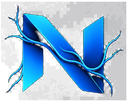
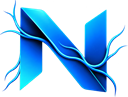
Give phones a full-screen menu and switch to the emblem-only mark
The supplied logo bakes the wordmark under the N, so the header and
footer now carry the emblem alone. The phone menu was opening clipped
inside the bar's own box and its frosted panel let the hero ghost
through, so it is now a solid full-screen sheet that locks page scroll
and no longer needs a transform on the header to stay put. Project
plates open from the picture itself, the ServePilot badge rests on a
fixed dark plate so it survives a light screenshot, and the footer
drops TikTok for WhatsApp with the social row under Contact.

diff --git a/app/globals.css b/app/globals.css
@@ -10,7 +10,6 @@
   --line-strong: rgb(217 233 255 / 25%);
   --accent: #17c8f5;
   --accent-dim: #1488f5;
-  --wordmark-filter: none;
   --hero-scrim: linear-gradient(90deg, rgb(5 9 20 / 94%) 0%, rgb(5 9 20 / 74%) 32%, rgb(5 9 20 / 26%) 62%, rgb(5 9 20 / 0%) 88%);
   --hero-scrim-mobile: linear-gradient(180deg, rgb(5 9 20 / 80%) 0%, rgb(5 9 20 / 42%) 46%, rgb(5 9 20 / 84%) 100%);
   --hero-loading: radial-gradient(ellipse at 62% 52%, rgb(16 122 255 / 22%), transparent 55%);
@@ -39,7 +38,6 @@
   --editorial-text: #152235;
   --editorial-muted: #536174;
   --editorial-accent: #247fa5;
-  --wordmark-filter: invert(1) hue-rotate(180deg);
   /* The whole page turns light; the full-bleed Tornado is recoloured to deeper
      tones so it stays visible on the light surface. */
   color-scheme: light;
@@ -70,9 +68,8 @@ button { color: inherit; }
 @keyframes nav-water-wave { 0% { opacity: .5; transform: translate(-50%, -50%) scale(.55); } 100% { opacity: 0; transform: translate(-50%, -50%) scale(2.25); } }
 :root[data-theme="light"] .nav-glass { border-color: rgb(10 30 60 / 18%); background: rgb(238 243 251 / 68%); box-shadow: 0 4px 30px rgb(20 44 76 / 12%); }
 :root[data-theme="light"] .nav-glass::before { background: radial-gradient(230px circle at var(--pointer-x, 50%) var(--pointer-y, 50%), rgb(20 154 219 / 13%), transparent 72%), linear-gradient(115deg, rgb(255 255 255 / 48%), transparent 35%, rgb(255 255 255 / 14%)); }
-.wordmark { position: relative; z-index: 1; display: inline-flex; flex: 0 0 auto; align-items: center; gap: 9px; white-space: nowrap; }
-.wordmark-emblem { display: block; width: 37px; height: 32px; object-fit: contain; }
-.wordmark-image { display: block; width: clamp(116px, 11vw, 145px); height: auto; filter: var(--wordmark-filter); transition: filter .35s ease; }
+.wordmark { position: relative; z-index: 1; display: inline-flex; flex: 0 0 auto; align-items: center; }
+.wordmark-emblem { display: block; width: 44px; height: 33px; object-fit: contain; }
 .primary-nav { position: relative; z-index: 1; display: flex; align-items: center; gap: clamp(18px, 2.4vw, 34px); color: color-mix(in srgb, var(--paper) 77%, transparent); font-size: 11px; }
 .primary-nav > a:not(.nav-contact) { transition: color .2s ease; }
 .primary-nav > a:not(.nav-contact):hover { color: var(--accent); }
@@ -203,6 +200,7 @@ button { color: inherit; }
 .project-stack { display: flex; flex-direction: column; gap: clamp(54px, 6.5vw, 112px); }
 .project-row { display: grid; grid-template-columns: repeat(2, minmax(0, 1fr)); gap: clamp(26px, 3.4vw, 54px); }
 .project-plate { display: grid; gap: 18px; }
+.plate-media-link { display: block; }
 .plate-media { position: relative; aspect-ratio: 16 / 10; overflow: hidden; border: 1px solid var(--line-strong); border-radius: 18px; background: var(--ink); box-shadow: 0 30px 70px rgb(2 8 20 / 38%); transition: transform .5s var(--curve), border-color .3s ease, box-shadow .5s var(--curve); }
 /* The curtain and the over-crop sit on this layer, so the plate's border and its
    badge stay put while only the shot itself opens. */
@@ -213,10 +211,14 @@ button { color: inherit; }
 .plate-name { display: flex; align-items: center; gap: 15px; }
 .plate-name h3 { margin: 0; font-size: clamp(33px, 3.7vw, 54px); line-height: .95; font-weight: 450; letter-spacing: -.07em; transition: color .3s ease; }
 .plate-arrow { display: inline-flex; flex: none; color: var(--accent); transition: transform .38s var(--curve); }
-.plate-foot { display: flex; flex-wrap: wrap; align-items: end; justify-content: space-between; gap: 14px 26px; }
 .plate-note { margin: 0; color: var(--muted); font-size: 16.5px; line-height: 1.5; }
-.plate-link { display: inline-flex; flex: none; align-items: center; gap: 7px; padding: 10px 14px; border: 1px solid var(--line-strong); border-radius: 12px; color: var(--paper); font: 500 11px/1 var(--font-mono); letter-spacing: .04em; transition: border-color .2s ease, color .2s ease; }
-.plate-link:hover { border-color: color-mix(in srgb, var(--accent) 45%, var(--line-strong)); color: var(--accent); }
+/* The whole picture is the link, so the badge only has to say where it goes.
+   It sits on top of a screenshot of unknown brightness, so its rest colours are
+   fixed dark glass with a light ring rather than theme tokens — ServePilot's
+   white page made a theme-pale disc disappear, and the hover had nothing to
+   change from. No backdrop-filter: the plate lift transforms an ancestor, which
+   Chrome does not always repaint behind a blurred layer. */
+.plate-open { position: absolute; z-index: 2; right: 14px; bottom: 14px; display: grid; place-items: center; width: 46px; height: 46px; border: 1px solid rgb(241 247 255 / 46%); border-radius: 50%; background: rgb(5 9 20 / 74%); box-shadow: 0 6px 18px rgb(2 8 20 / 32%); color: #eaf3ff; transition: transform .38s var(--curve), background .25s ease, border-color .25s ease, color .25s ease; }
 /* Hover: the plate lifts out of the grid, its edge takes the accent, the shot
    leans in behind the frame, the name picks up the accent and the arrow steps
    forward. The zoom is on the img because the scroll reveal owns the transform
@@ -225,6 +227,7 @@ button { color: inherit; }
 .project-plate:hover .plate-shot img, .project-plate:focus-within .plate-shot img { transform: scale(1.06); }
 .project-plate:hover .plate-name h3, .project-plate:focus-within .plate-name h3 { color: var(--accent); }
 .project-plate:hover .plate-arrow, .project-plate:focus-within .plate-arrow { transform: translateX(7px); }
+.project-plate:hover .plate-open, .project-plate:focus-within .plate-open { transform: translate(4px, -4px); border-color: var(--accent); background: var(--accent); color: #050914; }
 
 .approach { display: grid; grid-template-columns: .95fr 1.05fr; gap: 12%; }
 .approach-lead .eyebrow { margin-bottom: 28px; }
@@ -347,8 +350,7 @@ button { color: inherit; }
 .footer-socials { display: flex; gap: 9px; margin: 0; padding: 0; list-style: none; }
 .footer-socials a { display: inline-flex; align-items: center; justify-content: center; width: 36px; height: 36px; border: 1px solid var(--line-strong); border-radius: 10px; color: var(--paper); opacity: .78; transition: color .2s ease, border-color .2s ease, opacity .2s ease; }
 .footer-socials a:hover { color: var(--accent); border-color: color-mix(in srgb, var(--accent) 42%, var(--line-strong)); opacity: 1; }
-.footer-wordmark { font-size: 11px; }
-.footer-wordmark-image { display: block; width: 168px; height: auto; }
+.footer-wordmark .wordmark-emblem { width: 62px; height: 47px; }
 .footer-columns { display: grid; grid-template-columns: repeat(3, minmax(0, 1fr)); gap: 26px; }
 .footer-column h3 { margin: 0 0 15px; color: var(--muted); font: 500 11px/1 var(--font-mono); letter-spacing: .09em; text-transform: uppercase; }
 .footer-column ul { display: flex; flex-direction: column; gap: 10px; margin: 0; padding: 0; list-style: none; }
@@ -363,9 +365,7 @@ button { color: inherit; }
   .page-wrap { width: min(100% - 56px, 1320px); }
   .site-header { width: min(100% - 48px, 1080px); }
   .nav-glass { gap: 20px; padding-left: 17px; }
-  .wordmark { gap: 7px; }
-  .wordmark-emblem { width: 32px; height: 29px; }
-  .wordmark-image { width: 120px; }
+  .wordmark-emblem { width: 40px; height: 30px; }
   .primary-nav { gap: 18px; }
   .nav-contact { padding-inline: 13px; }
   .nav-end { gap: 8px; }
@@ -385,23 +385,36 @@ button { color: inherit; }
   .footer-columns { gap: 20px; }
 }
 @media (max-width: 760px) {
-  html { scroll-padding-top: 72px; }
+  /* The floating bar is 62px tall and sits 12px down, plus the notch inset, so
+     an anchor jump has to clear more than the desktop 88px. */
+  html { scroll-padding-top: calc(88px + env(safe-area-inset-top)); }
   .page-wrap { width: min(100% - 40px, 620px); }
   .section-pad { padding-block: 62px; }
-  .site-header { top: calc(12px + env(safe-area-inset-top)); width: min(100% - 32px, 620px); }
+  /* Centred with auto margins instead of a transform, and it steps aside with
+     top rather than the desktop translate: any transform, even the tail of a
+     transition, would capture the fixed sheet inside the bar. */
+  .site-header { top: calc(12px + env(safe-area-inset-top)); right: 0; left: 0; margin-inline: auto; transform: none; transition: top .42s var(--curve); width: min(100% - 32px, 620px); }
+  .site-header.is-hidden { top: calc(-100% - 90px); }
   .intro-band::before { height: clamp(72px, 12vh, 104px); }
-  .nav-glass { min-height: 62px; gap: 9px; padding: 0 10px 0 13px; border-radius: 16px; }
-  .wordmark { gap: 6px; }
-  .wordmark-emblem { width: 28px; height: 26px; }
-  .wordmark-image { width: clamp(104px, 30vw, 138px); }
+  .nav-glass { min-height: 62px; gap: 9px; padding: 0 10px 0 13px; border-radius: 16px; overflow: visible; -webkit-backdrop-filter: none; backdrop-filter: none; }
+  /* A fixed sheet needs the bar's backdrop-filter gone, and the filter was the
+     frost, so the plate turns solid. The light theme names .nav-glass itself,
+     which outranks a plain override, so it has to be named back. */
+  .nav-glass, :root[data-theme="light"] .nav-glass,
+  .site-header.is-stuck .nav-glass, :root[data-theme="light"] .site-header.is-stuck .nav-glass { background: var(--ink-soft); }
+  .wordmark-emblem { width: 34px; height: 26px; }
   .nav-end { gap: 6px; }
   .nav-glass .theme-toggle { width: 34px; min-height: 34px; padding: 0; justify-content: center; }
   .nav-glass .theme-toggle span { display: none; }
   .menu-toggle { display: grid; flex: 0 0 34px; width: 34px; height: 34px; place-items: center; border: 1px solid var(--line-strong); border-radius: 50%; background: rgb(255 255 255 / 4%); }
-  .primary-nav { position: absolute; top: calc(100% + 9px); left: 0; right: 0; display: flex; flex-direction: column; align-items: stretch; gap: 0; padding: 8px; border: 1px solid var(--line-strong); border-radius: 18px; background: color-mix(in srgb, var(--ink-soft) 94%, transparent); -webkit-backdrop-filter: blur(24px) saturate(145%); backdrop-filter: blur(24px) saturate(145%); box-shadow: 0 18px 45px rgb(0 0 0 / 25%); opacity: 0; visibility: hidden; pointer-events: none; transform: translateY(-7px) scale(.99); transform-origin: top center; transition: opacity .2s ease, transform .2s ease, visibility .2s ease; }
-  .primary-nav.is-open { opacity: 1; visibility: visible; pointer-events: auto; transform: translateY(0) scale(1); }
-  .primary-nav > a:not(.nav-contact) { min-height: 46px; padding: 0 12px; border-bottom: 1px solid var(--line); }
-  .primary-nav .nav-contact-mobile { display: flex; justify-content: space-between; margin-top: 7px; }
+  .primary-nav { position: fixed; inset: 0; z-index: 0; display: flex; flex-direction: column; align-items: stretch; justify-content: safe center; gap: 0; overflow-y: auto; padding: calc(78px + env(safe-area-inset-top)) 26px calc(26px + env(safe-area-inset-bottom)); background: var(--ink-soft); font-size: 17px; opacity: 0; visibility: hidden; pointer-events: none; transform: translateY(-10px); transition: opacity .22s ease, transform .22s ease, visibility .22s ease; }
+  .primary-nav.is-open { opacity: 1; visibility: visible; pointer-events: auto; transform: none; }
+  .primary-nav > a:not(.nav-contact) { min-height: 56px; padding: 0 2px; border-bottom: 1px solid var(--line); }
+  /* The active dot is centred on its link, so on a full-width row it floats in
+     the middle of the sheet. Colour alone marks the section here. */
+  .primary-nav > a:not(.nav-contact)::after { display: none; }
+  .primary-nav > a.is-active { color: var(--accent); }
+  .primary-nav .nav-contact-mobile { display: flex; align-items: center; justify-content: space-between; min-height: 52px; margin-top: 20px; }
   .nav-contact-desktop { display: none; }
   .hero { min-height: 100svh; padding-top: calc(96px + env(safe-area-inset-top)); padding-bottom: calc(72px + env(safe-area-inset-bottom)); }
   .hero-visual::after { pointer-events: none; background: var(--hero-scrim-mobile); }
@@ -424,14 +437,18 @@ button { color: inherit; }
   .work-heading { display: block; margin-bottom: 26px; }
   .work-heading .eyebrow { margin-bottom: 20px; }
   .work-heading > div { max-width: none; }
-  .project-stack { gap: 64px; }
+  .project-stack { gap: 44px; }
   .project-row { grid-template-columns: 1fr; gap: 0; }
-  .project-plate { gap: 16px; }
+  /* On a phone the plate is the only thing on its row, so it carries its own
+     surface instead of reading as a loose column of text under a picture. */
+  .project-plate { gap: 15px; padding: 13px; border: 1px solid var(--line); border-radius: 22px; background: var(--ink-raised); }
   .plate-name { gap: 11px; }
-  .plate-name h3 { font-size: 40px; }
-  .plate-foot { display: grid; gap: 14px; }
-  .plate-note { max-width: none; }
-  .plate-link { justify-self: start; }
+  .plate-name h3 { font-size: 36px; }
+  .plate-open { right: 11px; bottom: 11px; }
+  /* The shots are 3:2, so a 3:2 box shows the whole page instead of cropping
+     the top and bottom of a desktop screenshot that is already small. */
+  .plate-media { aspect-ratio: 3 / 2; border-radius: 14px; box-shadow: 0 18px 40px rgb(2 8 20 / 28%); }
+  .plate-tags { font-size: 10px; letter-spacing: .1em; }
   .why-split { grid-template-columns: 1fr; gap: 32px; }
   .why-panel h3 { font-size: 34px; }
   .process-track { display: block; padding-left: 26px; }
@@ -457,23 +474,34 @@ button { color: inherit; }
   .enquiry-popup { padding: 16px; }
   .enquiry-panel { padding: 20px; max-height: 90vh; }
   .enquiry-title { margin-top: 20px; font-size: 21px; }
-  .site-footer { grid-template-columns: 1fr auto; gap: 22px 14px; padding-block: 44px 18px; }
-  .footer-brand { grid-column: 1 / -1; max-width: none; }
-  .footer-columns { grid-column: 1 / -1; grid-template-columns: repeat(2, minmax(0, 1fr)); gap: 22px; }
-  .back-top { font-size: 10px; }
-  .copyright { padding-top: 18px; }
+  .site-footer { grid-template-columns: 1fr auto; gap: 20px 14px; padding-block: 38px 16px; }
+  /* The social row alone goes under Contact, so the brand column has to stop
+     being one flex block and let its three children place themselves in the
+     footer grid. Desktop keeps the flex column untouched. */
+  .footer-brand { display: contents; }
+  .footer-wordmark { grid-column: 1 / -1; grid-row: 1; }
+  .footer-brand > p { grid-column: 1 / -1; grid-row: 2; font-size: 15.5px; }
+  .footer-wordmark .wordmark-emblem { width: 54px; height: 41px; }
+  .footer-columns { grid-column: 1 / -1; grid-row: 3; grid-template-columns: repeat(2, minmax(0, 1fr)); gap: 22px 14px; }
+  /* Three groups into two tracks left Contact alone on its own row with a
+     whole column of empty space beside it. */
+  .footer-columns > :last-child { grid-column: 1 / -1; }
+  .footer-columns > :last-child ul { flex-direction: row; flex-wrap: wrap; gap: 0 22px; }
+  .footer-column ul { gap: 0; }
+  .footer-column a { display: flex; align-items: center; min-height: 42px; font-size: 14px; }
+  .footer-socials { grid-column: 1 / -1; grid-row: 4; }
+  .back-top { grid-column: 2; grid-row: 5; justify-self: end; align-items: center; min-height: 44px; font-size: 11px; }
+  .copyright { grid-row: 6; padding-top: 16px; }
 }
 @media (max-width: 390px) {
   .page-wrap { width: min(100% - 32px, 620px); }
   .site-header { width: min(100% - 24px, 620px); }
   .nav-glass { gap: 6px; padding-inline: 10px; }
-  .wordmark-image { width: 108px; }
   .nav-contact-desktop { display: none; }
   .hero h1 { font-size: 49px; }
   .hero-actions { align-items: flex-start; flex-direction: column; gap: 17px; }
   .service-card { width: min(82vw, 320px); }
   .plate-name h3 { font-size: 34px; }
-  .plate-media { border-radius: 14px; }
 }
 @media (prefers-reduced-motion: reduce) {
   *, *::before, *::after { scroll-behavior: auto !important; animation-duration: .01ms !important; animation-iteration-count: 1 !important; transition-duration: .01ms !important; }

diff --git a/components/work-showcase.tsx b/components/work-showcase.tsx
@@ -99,11 +99,14 @@ function ProjectPlate({ project, number, progress }: { project: Project; number:
 
   return (
     <article className="project-plate">
-      <div className="plate-media">
-        <motion.div className="plate-shot" style={still ? undefined : { clipPath: clip, scale: zoom }}>
-          <Image src={project.image} alt={project.alt} width={1400} height={933} sizes="(max-width: 760px) 92vw, (max-width: 1100px) 84vw, 41vw" loading={number === 1 ? "eager" : "lazy"} decoding="async" />
-        </motion.div>
-      </div>
+      <a className="plate-media-link" href={project.url} target="_blank" rel="noopener noreferrer" aria-label={`Open ${project.name} on ${project.host}`}>
+        <div className="plate-media">
+          <motion.div className="plate-shot" style={still ? undefined : { clipPath: clip, scale: zoom }}>
+            <Image src={project.image} alt={project.alt} width={1400} height={933} sizes="(max-width: 760px) 84vw, (max-width: 1100px) 84vw, 41vw" loading={number === 1 ? "eager" : "lazy"} decoding="async" />
+          </motion.div>
+          <span className="plate-open" aria-hidden="true"><ArrowUpRight size={20} weight="bold" /></span>
+        </div>
+      </a>
 
       <motion.div className="plate-meta" style={still ? undefined : { y: textY, opacity: textOpacity }}>
         <p className="plate-tags">{project.tags}</p>
@@ -111,12 +114,7 @@ function ProjectPlate({ project, number, progress }: { project: Project; number:
           <span className="plate-arrow" aria-hidden="true"><ArrowRight size={22} weight="light" /></span>
           <h3>{project.name}</h3>
         </div>
-        <div className="plate-foot">
-          <p className="plate-note">{project.description}</p>
-          <a className="plate-link" href={project.url} target="_blank" rel="noopener noreferrer">
-            {project.host} <ArrowUpRight size={15} weight="bold" aria-hidden="true" />
-          </a>
-        </div>
+        <p className="plate-note">{project.description}</p>
       </motion.div>
     </article>
   );

diff --git a/components/site-footer.tsx b/components/site-footer.tsx
@@ -1,6 +1,6 @@
 "use client"
 import Image from "next/image";
-import { ArrowUp, FacebookLogo, InstagramLogo, LinkedinLogo, TiktokLogo } from "@phosphor-icons/react";
+import { ArrowUp, FacebookLogo, InstagramLogo, LinkedinLogo, WhatsappLogo } from "@phosphor-icons/react";
 
 const navigate = [
   { label: "Home", href: "#top" },
@@ -19,10 +19,10 @@ const services = [
 ];
 
 const socials = [
+  { label: "LinkedIn", href: "https://www.linkedin.com/company/nex-veins/", Icon: LinkedinLogo },
   { label: "Facebook", href: "https://www.facebook.com/profile.php?id=61594916004272", Icon: FacebookLogo },
   { label: "Instagram", href: "https://www.instagram.com/nexveins/", Icon: InstagramLogo },
-  { label: "LinkedIn", href: "https://www.linkedin.com/company/nex-veins/", Icon: LinkedinLogo },
-  { label: "TikTok", href: "https://www.tiktok.com/@nexveins", Icon: TiktokLogo },
+  { label: "WhatsApp", href: "https://wa.me/923193360773", Icon: WhatsappLogo },
 ];
 
 export function SiteFooter() {
@@ -31,8 +31,7 @@ export function SiteFooter() {
       <div className="site-footer page-wrap">
         <div className="footer-brand">
           <a className="wordmark footer-wordmark" href="#top" aria-label="NexVeins home">
-            <Image className="wordmark-emblem" src="/nexveins-emblem.png" width={640} height={500} alt="" />
-            <Image className="wordmark-image footer-wordmark-image" src="/nexveins-wordmark.png" width={1016} height={146} alt="" />
+            <Image className="wordmark-emblem" src="/nexveins-emblem.png" width={560} height={423} alt="" />
           </a>
           <p>NexVeins builds innovative digital solutions that help businesses grow, operate smarter and succeed in the digital world.</p>
           <ul className="footer-socials" aria-label="NexVeins on social media">

diff --git a/components/site-nav.tsx b/components/site-nav.tsx
@@ -28,8 +28,13 @@ export function SiteNav() {
     const closeOnEscape = (event: KeyboardEvent) => {
       if (event.key === "Escape") setMenuOpen(false);
     };
+    const previousOverflow = document.body.style.overflow;
+    document.body.style.overflow = "hidden";
     window.addEventListener("keydown", closeOnEscape);
-    return () => window.removeEventListener("keydown", closeOnEscape);
+    return () => {
+      window.removeEventListener("keydown", closeOnEscape);
+      document.body.style.overflow = previousOverflow;
+    };
   }, [menuOpen]);
 
   useEffect(() => {
@@ -93,8 +98,7 @@ export function SiteNav() {
       >
         <span className="nav-glass-ripple" aria-hidden="true" />
         <a className="wordmark" href="#top" aria-label="Nexveins home" onClick={closeMenu}>
-          <Image className="wordmark-emblem" src="/nexveins-emblem.png" width={640} height={500} alt="" priority />
-          <Image className="wordmark-image" src="/nexveins-wordmark.png" width={1016} height={146} alt="" priority />
+          <Image className="wordmark-emblem" src="/nexveins-emblem.png" width={560} height={423} alt="" priority />
         </a>
 
         <nav id="primary-navigation" className={`primary-nav${menuOpen ? " is-open" : ""}`} aria-label="Main navigation">
